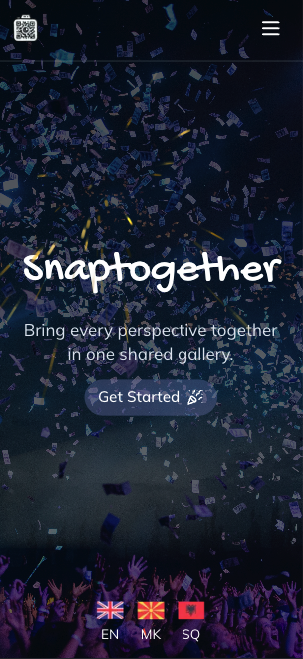
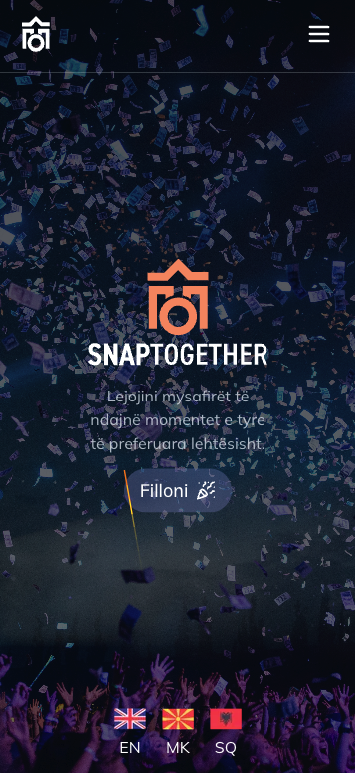
change image in about us and change width in landing page

diff --git a/snaptogether/src/app/[locale]/page.tsx b/snaptogether/src/app/[locale]/page.tsx
@@ -53,7 +53,7 @@ export default function Home() {
       
       <Navbar />
       {/* Centered Content */}
-      <div className="absolute flex flex-col gap-4 items-center justify-center h-fit top-1/2 left-1/2 transform -translate-x-1/2 -translate-y-1/2 w-[70vw]">
+      <div className="absolute flex flex-col gap-4 items-center justify-center h-fit top-1/2 left-1/2 transform -translate-x-1/2 -translate-y-1/2 w-[91vw]">
         <motion.div
           className="logo flex flex-col items-center justify-center"
           initial={{ opacity: 0, scale: 0.8 }}
